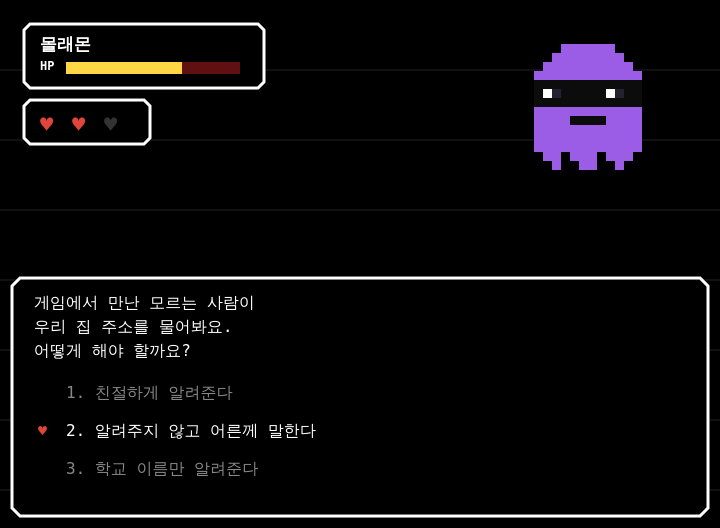
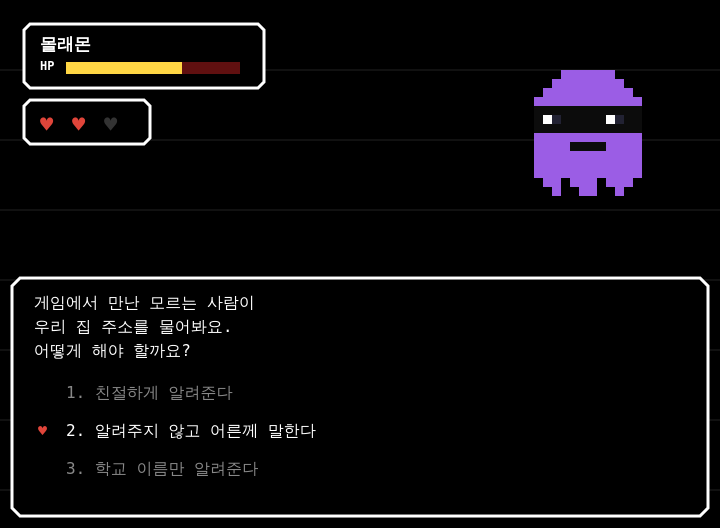
전투 화면에 몬스터 그림자와 정답/오답 반응 이모트 추가
몬스터와 질문 상자 사이가 휑하던 전투 화면에 생동감을 더한다.

- 몬스터를 살짝 내려 그림자(타원)로 땅에 자리잡게 함
- 피드백 단계에서 몬스터 머리 위 반응 이모트:
  정답이면 노란 '!'(깨달음), 오답이면 회색 '?'(아직 갸웃)

https://claude.ai/code/session_01RFusnFH4y3AmExUAGS5MM5

Changed region(s): [[0.7333, 0.0606, 0.9167, 0.3939]]

diff --git a/src/game.js b/src/game.js
@@ -1547,9 +1547,28 @@
     const shakeX = b.shake > 0 ? Math.sin(b.shake * 2) * 6 : 0;
     const bob = Math.sin(game.time / 20) * 5;
     const monScale = 9;
-    drawSprite(ctx, MONSTER_SPRITES[b.monId],
-      Math.round(canvas.width - 16 * monScale - 60 + shakeX),
-      Math.round(30 + bob), monScale);
+    const mx = Math.round(canvas.width - 16 * monScale - 60 + shakeX);
+    const my = Math.round(56 + bob);
+    const mcx = mx + 16 * monScale / 2;
+    // 그림자 — 몬스터가 땅에 떠 있는 느낌을 줘 화면이 덜 휑하게
+    ctx.fillStyle = 'rgba(0,0,0,0.32)';
+    ctx.beginPath();
+    ctx.ellipse(mcx, 222, 56 - bob, 12, 0, 0, Math.PI * 2);
+    ctx.fill();
+    drawSprite(ctx, MONSTER_SPRITES[b.monId], mx, my, monScale);
+    // 반응 이모트 — 정답이면 번쩍 깨달음(!), 오답이면 아직 갸웃(?)
+    if (b.phase === 'feedback' && b.feedback) {
+      const ch = b.feedback.correct ? '!' : '?';
+      const ey = my - 10 + Math.sin(game.time / 8) * 3;
+      ctx.font = 'bold 34px monospace';
+      ctx.textAlign = 'center';
+      ctx.fillStyle = b.feedback.correct ? '#ffd644' : '#9aa0b0';
+      ctx.fillText(ch, mcx, ey);
+      ctx.strokeStyle = '#000';
+      ctx.lineWidth = 2;
+      ctx.strokeText(ch, mcx, ey);
+      ctx.textAlign = 'left';
+    }
 
     // 몬스터 이름/HP
     utBox(24, 24, 240, 64, 6);